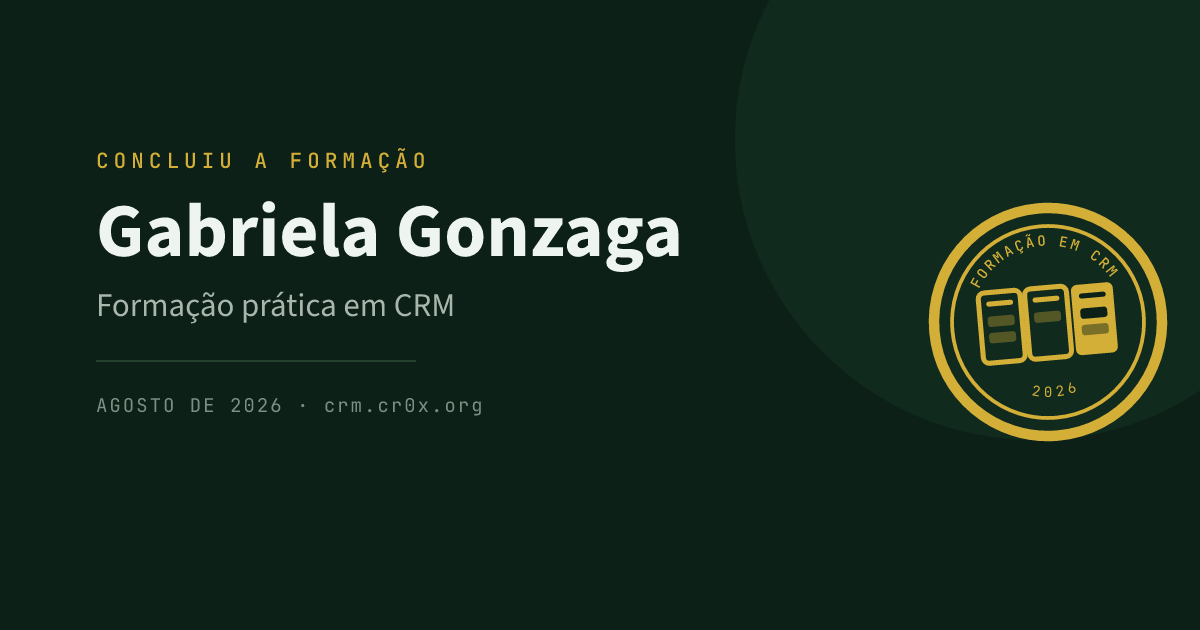
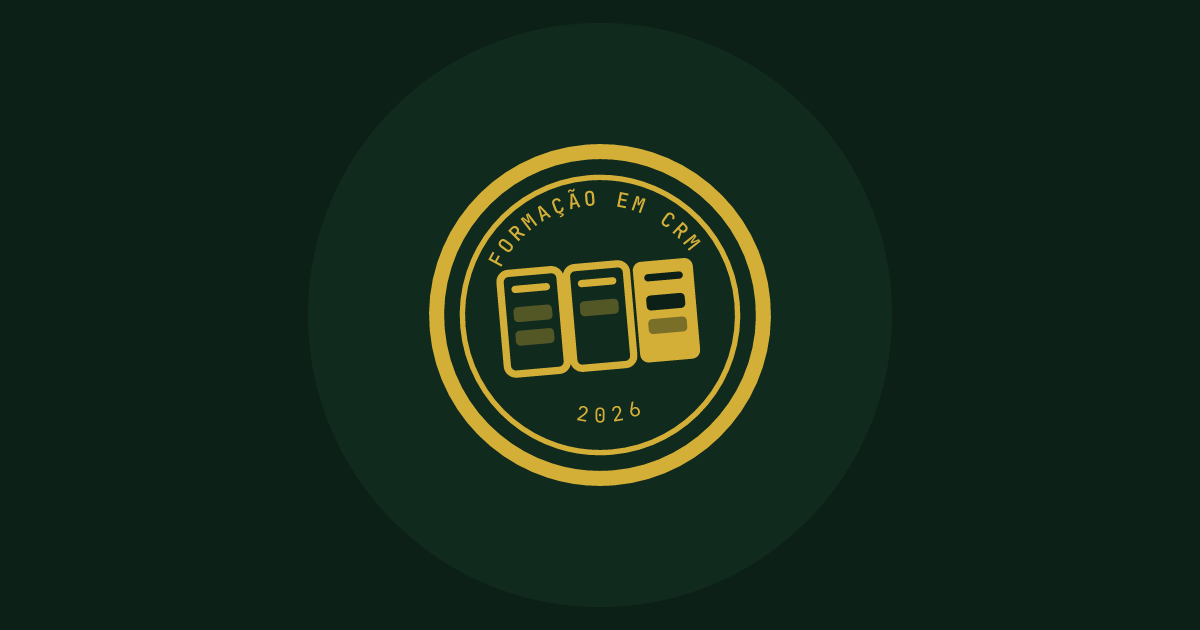
A imagem de partilha passa a ser so o badge, ao centro
O WhatsApp recorta a pre-visualizacao para um quadrado e o Facebook corta
pelas bordas: o nome e a data que estavam a esquerda desapareciam antes de
serem lidos. Ao centro, o badge sobrevive a todos os recortes - e o nome de
quem concluiu ja vai no titulo da partilha, que e texto e nunca e cortado.

O botao de descarregar passa a dar o badge quadrado, que e o que serve para
uma foto de perfil ou para o Instagram, em vez da imagem larga.

diff --git a/b/6J2JV95S/index.html b/b/6J2JV95S/index.html
@@ -99,7 +99,7 @@
   <div class="acoes">
     <a class="btn" href="https://www.linkedin.com/profile/add?startTask=CERTIFICATION_NAME&amp;name=Forma%C3%A7%C3%A3o+pr%C3%A1tica+em+CRM&amp;organizationName=crm.cr0x.org&amp;issueYear=2026&amp;issueMonth=8&amp;certUrl=https%3A%2F%2Fcrm.cr0x.org%2Fb%2F6J2JV95S%2F&amp;certId=6J2JV95S" target="_blank" rel="noopener">Adicionar ao perfil do LinkedIn</a>
     <a class="btn sec" href="https://www.linkedin.com/sharing/share-offsite/?url=https%3A%2F%2Fcrm.cr0x.org%2Fb%2F6J2JV95S%2F" target="_blank" rel="noopener">Publicar no LinkedIn</a>
-    <a class="btn sec" href="selo.png" download="selo-crm.png">Descarregar a imagem</a>
+    <a class="btn sec" href="selo-quadrado.png" download="badge-crm.png">Descarregar a imagem</a>
   </div>
 
   <div class="rodape">

diff --git a/b/7cp55GGy/index.html b/b/7cp55GGy/index.html
@@ -99,7 +99,7 @@
   <div class="acoes">
     <a class="btn" href="https://www.linkedin.com/profile/add?startTask=CERTIFICATION_NAME&amp;name=Forma%C3%A7%C3%A3o+pr%C3%A1tica+em+CRM&amp;organizationName=crm.cr0x.org&amp;issueYear=2026&amp;issueMonth=8&amp;certUrl=https%3A%2F%2Fcrm.cr0x.org%2Fb%2F7cp55GGy%2F&amp;certId=7cp55GGy" target="_blank" rel="noopener">Adicionar ao perfil do LinkedIn</a>
     <a class="btn sec" href="https://www.linkedin.com/sharing/share-offsite/?url=https%3A%2F%2Fcrm.cr0x.org%2Fb%2F7cp55GGy%2F" target="_blank" rel="noopener">Publicar no LinkedIn</a>
-    <a class="btn sec" href="selo.png" download="selo-crm.png">Descarregar a imagem</a>
+    <a class="btn sec" href="selo-quadrado.png" download="badge-crm.png">Descarregar a imagem</a>
   </div>
 
   <div class="rodape">

diff --git a/b/9GVj6HsP/index.html b/b/9GVj6HsP/index.html
@@ -99,7 +99,7 @@
   <div class="acoes">
     <a class="btn" href="https://www.linkedin.com/profile/add?startTask=CERTIFICATION_NAME&amp;name=Forma%C3%A7%C3%A3o+pr%C3%A1tica+em+CRM&amp;organizationName=crm.cr0x.org&amp;issueYear=2026&amp;issueMonth=8&amp;certUrl=https%3A%2F%2Fcrm.cr0x.org%2Fb%2F9GVj6HsP%2F&amp;certId=9GVj6HsP" target="_blank" rel="noopener">Adicionar ao perfil do LinkedIn</a>
     <a class="btn sec" href="https://www.linkedin.com/sharing/share-offsite/?url=https%3A%2F%2Fcrm.cr0x.org%2Fb%2F9GVj6HsP%2F" target="_blank" rel="noopener">Publicar no LinkedIn</a>
-    <a class="btn sec" href="selo.png" download="selo-crm.png">Descarregar a imagem</a>
+    <a class="btn sec" href="selo-quadrado.png" download="badge-crm.png">Descarregar a imagem</a>
   </div>
 
   <div class="rodape">

diff --git a/b/Czhr9FwR/index.html b/b/Czhr9FwR/index.html
@@ -99,7 +99,7 @@
   <div class="acoes">
     <a class="btn" href="https://www.linkedin.com/profile/add?startTask=CERTIFICATION_NAME&amp;name=Forma%C3%A7%C3%A3o+pr%C3%A1tica+em+CRM&amp;organizationName=crm.cr0x.org&amp;issueYear=2026&amp;issueMonth=8&amp;certUrl=https%3A%2F%2Fcrm.cr0x.org%2Fb%2FCzhr9FwR%2F&amp;certId=Czhr9FwR" target="_blank" rel="noopener">Adicionar ao perfil do LinkedIn</a>
     <a class="btn sec" href="https://www.linkedin.com/sharing/share-offsite/?url=https%3A%2F%2Fcrm.cr0x.org%2Fb%2FCzhr9FwR%2F" target="_blank" rel="noopener">Publicar no LinkedIn</a>
-    <a class="btn sec" href="selo.png" download="selo-crm.png">Descarregar a imagem</a>
+    <a class="btn sec" href="selo-quadrado.png" download="badge-crm.png">Descarregar a imagem</a>
   </div>
 
   <div class="rodape">

diff --git a/b/DXcPf5zZ/index.html b/b/DXcPf5zZ/index.html
@@ -99,7 +99,7 @@
   <div class="acoes">
     <a class="btn" href="https://www.linkedin.com/profile/add?startTask=CERTIFICATION_NAME&amp;name=Forma%C3%A7%C3%A3o+pr%C3%A1tica+em+CRM&amp;organizationName=crm.cr0x.org&amp;issueYear=2026&amp;issueMonth=8&amp;certUrl=https%3A%2F%2Fcrm.cr0x.org%2Fb%2FDXcPf5zZ%2F&amp;certId=DXcPf5zZ" target="_blank" rel="noopener">Adicionar ao perfil do LinkedIn</a>
     <a class="btn sec" href="https://www.linkedin.com/sharing/share-offsite/?url=https%3A%2F%2Fcrm.cr0x.org%2Fb%2FDXcPf5zZ%2F" target="_blank" rel="noopener">Publicar no LinkedIn</a>
-    <a class="btn sec" href="selo.png" download="selo-crm.png">Descarregar a imagem</a>
+    <a class="btn sec" href="selo-quadrado.png" download="badge-crm.png">Descarregar a imagem</a>
   </div>
 
   <div class="rodape">

diff --git a/b/KCP43DBw/index.html b/b/KCP43DBw/index.html
@@ -99,7 +99,7 @@
   <div class="acoes">
     <a class="btn" href="https://www.linkedin.com/profile/add?startTask=CERTIFICATION_NAME&amp;name=Forma%C3%A7%C3%A3o+pr%C3%A1tica+em+CRM&amp;organizationName=crm.cr0x.org&amp;issueYear=2026&amp;issueMonth=8&amp;certUrl=https%3A%2F%2Fcrm.cr0x.org%2Fb%2FKCP43DBw%2F&amp;certId=KCP43DBw" target="_blank" rel="noopener">Adicionar ao perfil do LinkedIn</a>
     <a class="btn sec" href="https://www.linkedin.com/sharing/share-offsite/?url=https%3A%2F%2Fcrm.cr0x.org%2Fb%2FKCP43DBw%2F" target="_blank" rel="noopener">Publicar no LinkedIn</a>
-    <a class="btn sec" href="selo.png" download="selo-crm.png">Descarregar a imagem</a>
+    <a class="btn sec" href="selo-quadrado.png" download="badge-crm.png">Descarregar a imagem</a>
   </div>
 
   <div class="rodape">

diff --git a/b/RrJ5ZSHB/index.html b/b/RrJ5ZSHB/index.html
@@ -99,7 +99,7 @@
   <div class="acoes">
     <a class="btn" href="https://www.linkedin.com/profile/add?startTask=CERTIFICATION_NAME&amp;name=Forma%C3%A7%C3%A3o+pr%C3%A1tica+em+CRM&amp;organizationName=crm.cr0x.org&amp;issueYear=2026&amp;issueMonth=8&amp;certUrl=https%3A%2F%2Fcrm.cr0x.org%2Fb%2FRrJ5ZSHB%2F&amp;certId=RrJ5ZSHB" target="_blank" rel="noopener">Adicionar ao perfil do LinkedIn</a>
     <a class="btn sec" href="https://www.linkedin.com/sharing/share-offsite/?url=https%3A%2F%2Fcrm.cr0x.org%2Fb%2FRrJ5ZSHB%2F" target="_blank" rel="noopener">Publicar no LinkedIn</a>
-    <a class="btn sec" href="selo.png" download="selo-crm.png">Descarregar a imagem</a>
+    <a class="btn sec" href="selo-quadrado.png" download="badge-crm.png">Descarregar a imagem</a>
   </div>
 
   <div class="rodape">

diff --git a/b/Rwf96Zmz/index.html b/b/Rwf96Zmz/index.html
@@ -99,7 +99,7 @@
   <div class="acoes">
     <a class="btn" href="https://www.linkedin.com/profile/add?startTask=CERTIFICATION_NAME&amp;name=Forma%C3%A7%C3%A3o+pr%C3%A1tica+em+CRM&amp;organizationName=crm.cr0x.org&amp;issueYear=2026&amp;issueMonth=8&amp;certUrl=https%3A%2F%2Fcrm.cr0x.org%2Fb%2FRwf96Zmz%2F&amp;certId=Rwf96Zmz" target="_blank" rel="noopener">Adicionar ao perfil do LinkedIn</a>
     <a class="btn sec" href="https://www.linkedin.com/sharing/share-offsite/?url=https%3A%2F%2Fcrm.cr0x.org%2Fb%2FRwf96Zmz%2F" target="_blank" rel="noopener">Publicar no LinkedIn</a>
-    <a class="btn sec" href="selo.png" download="selo-crm.png">Descarregar a imagem</a>
+    <a class="btn sec" href="selo-quadrado.png" download="badge-crm.png">Descarregar a imagem</a>
   </div>
 
   <div class="rodape">

diff --git a/b/g9N6cZ5q/index.html b/b/g9N6cZ5q/index.html
@@ -99,7 +99,7 @@
   <div class="acoes">
     <a class="btn" href="https://www.linkedin.com/profile/add?startTask=CERTIFICATION_NAME&amp;name=Forma%C3%A7%C3%A3o+pr%C3%A1tica+em+CRM&amp;organizationName=crm.cr0x.org&amp;issueYear=2026&amp;issueMonth=8&amp;certUrl=https%3A%2F%2Fcrm.cr0x.org%2Fb%2Fg9N6cZ5q%2F&amp;certId=g9N6cZ5q" target="_blank" rel="noopener">Adicionar ao perfil do LinkedIn</a>
     <a class="btn sec" href="https://www.linkedin.com/sharing/share-offsite/?url=https%3A%2F%2Fcrm.cr0x.org%2Fb%2Fg9N6cZ5q%2F" target="_blank" rel="noopener">Publicar no LinkedIn</a>
-    <a class="btn sec" href="selo.png" download="selo-crm.png">Descarregar a imagem</a>
+    <a class="btn sec" href="selo-quadrado.png" download="badge-crm.png">Descarregar a imagem</a>
   </div>
 
   <div class="rodape">

diff --git a/b/h8mTmGPV/index.html b/b/h8mTmGPV/index.html
@@ -99,7 +99,7 @@
   <div class="acoes">
     <a class="btn" href="https://www.linkedin.com/profile/add?startTask=CERTIFICATION_NAME&amp;name=Forma%C3%A7%C3%A3o+pr%C3%A1tica+em+CRM&amp;organizationName=crm.cr0x.org&amp;issueYear=2026&amp;issueMonth=8&amp;certUrl=https%3A%2F%2Fcrm.cr0x.org%2Fb%2Fh8mTmGPV%2F&amp;certId=h8mTmGPV" target="_blank" rel="noopener">Adicionar ao perfil do LinkedIn</a>
     <a class="btn sec" href="https://www.linkedin.com/sharing/share-offsite/?url=https%3A%2F%2Fcrm.cr0x.org%2Fb%2Fh8mTmGPV%2F" target="_blank" rel="noopener">Publicar no LinkedIn</a>
-    <a class="btn sec" href="selo.png" download="selo-crm.png">Descarregar a imagem</a>
+    <a class="btn sec" href="selo-quadrado.png" download="badge-crm.png">Descarregar a imagem</a>
   </div>
 
   <div class="rodape">

diff --git a/b/mH6F29Rr/index.html b/b/mH6F29Rr/index.html
@@ -99,7 +99,7 @@
   <div class="acoes">
     <a class="btn" href="https://www.linkedin.com/profile/add?startTask=CERTIFICATION_NAME&amp;name=Forma%C3%A7%C3%A3o+pr%C3%A1tica+em+CRM&amp;organizationName=crm.cr0x.org&amp;issueYear=2026&amp;issueMonth=8&amp;certUrl=https%3A%2F%2Fcrm.cr0x.org%2Fb%2FmH6F29Rr%2F&amp;certId=mH6F29Rr" target="_blank" rel="noopener">Adicionar ao perfil do LinkedIn</a>
     <a class="btn sec" href="https://www.linkedin.com/sharing/share-offsite/?url=https%3A%2F%2Fcrm.cr0x.org%2Fb%2FmH6F29Rr%2F" target="_blank" rel="noopener">Publicar no LinkedIn</a>
-    <a class="btn sec" href="selo.png" download="selo-crm.png">Descarregar a imagem</a>
+    <a class="btn sec" href="selo-quadrado.png" download="badge-crm.png">Descarregar a imagem</a>
   </div>
 
   <div class="rodape">

diff --git a/b/wffsG4CQ/index.html b/b/wffsG4CQ/index.html
@@ -99,7 +99,7 @@
   <div class="acoes">
     <a class="btn" href="https://www.linkedin.com/profile/add?startTask=CERTIFICATION_NAME&amp;name=Forma%C3%A7%C3%A3o+pr%C3%A1tica+em+CRM&amp;organizationName=crm.cr0x.org&amp;issueYear=2026&amp;issueMonth=8&amp;certUrl=https%3A%2F%2Fcrm.cr0x.org%2Fb%2FwffsG4CQ%2F&amp;certId=wffsG4CQ" target="_blank" rel="noopener">Adicionar ao perfil do LinkedIn</a>
     <a class="btn sec" href="https://www.linkedin.com/sharing/share-offsite/?url=https%3A%2F%2Fcrm.cr0x.org%2Fb%2FwffsG4CQ%2F" target="_blank" rel="noopener">Publicar no LinkedIn</a>
-    <a class="btn sec" href="selo.png" download="selo-crm.png">Descarregar a imagem</a>
+    <a class="btn sec" href="selo-quadrado.png" download="badge-crm.png">Descarregar a imagem</a>
   </div>
 
   <div class="rodape">
